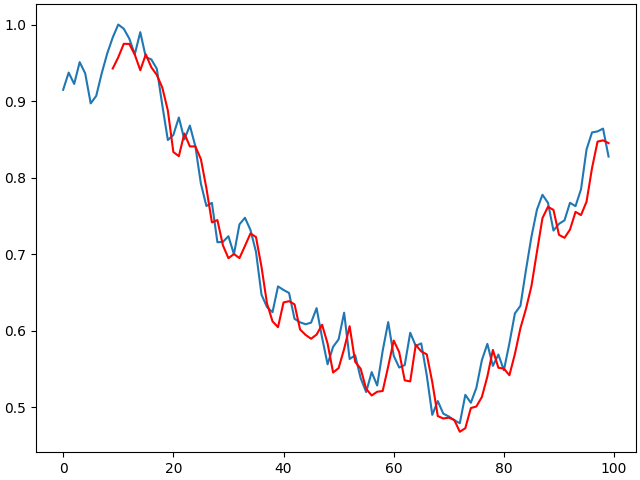
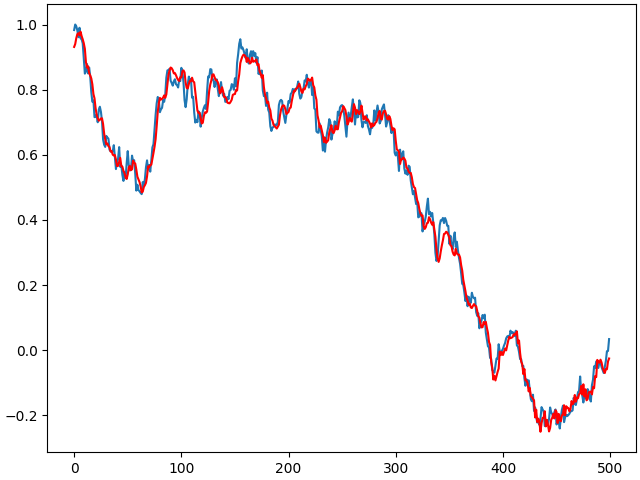
bug fixes

diff --git a/src/training_loop.py b/src/training_loop.py
@@ -89,32 +89,35 @@ def train(datasets_folder="./datasets/"):
         else:
             raise ValueError
         
-        print("Loaded real testing dataset.")
-
-        synth_plot = np.ones_like(dataset.get_whole_stream()) * np.nan
+        print("Loaded testing dataset.")
+        synth_plot = np.zeros_like(dataset.get_whole_stream()) * np.nan
 
         if hparams.model_type == 'PSF':
             y_pred = model(dataset.get_all_sequences(), dataset.get_all_pi()
-                        ).reshape(-1,hparams.data_dim)[hparams.lookback:]
-            
-        elif hparams.model_type == "FFSF":
-            y_pred = model(dataset.get_all_sequences(), dataset.get_all_pi()
-                        ).reshape(-1)[:-hparams.lookback]
+                        ).reshape(-1,hparams.data_dim)
             
         elif hparams.model_type == 'SSF':
             y_pred = model(dataset.get_all_sequences()
-                        ).reshape(-1,hparams.data_dim)[hparams.lookback:]
+                        ).reshape(-1,hparams.data_dim)
 
-        synth_plot[hparams.lookback:dataset.n_samples] = y_pred
+        elif hparams.model_type == "FFSF":
+            y_pred = model(dataset.get_all_sequences(), dataset.get_all_pi()
+                        ).reshape(-1)
+
+
+        if hparams.model_type in ['SSF', 'PSF']:
+            synth_plot[hparams.lookback:] = y_pred[hparams.lookback:]
+        elif hparams.model_type == 'FFSF':
+            synth_plot = y_pred
 
         print("Predictions done.")
         # only plot the first dimension
         horizon = min(hparams.plot_horizon, dataset.n_samples)
-        if hparams.model_type == 'PSF' or hparams.model_type == "SSF":
+        if hparams.model_type in ['PSF', 'SSF']:
             plt.plot(dataset.get_whole_stream()[:horizon,0])
             plt.plot(synth_plot[:horizon,0], c='r')
         else:
-            plt.plot(dataset.get_whole_stream()[:horizon])
+            plt.plot(dataset.get_all_targets()[:horizon])
             plt.plot(synth_plot[:horizon], c='r')
 
         print("Plot done.")

diff --git a/src/hyperparameters.py b/src/hyperparameters.py
@@ -8,7 +8,7 @@ from dataclasses import dataclass
 class Config:
 
     ## Training parameters
-    model_type: bool = 'FFSF' #. . . . . Whether to use PSF, SSF or FFSF
+    model_type: bool = 'PSF' #. . . . . Whether to use PSF, SSF or FFSF
     n_epochs: int = 10**1 #. . . . . . . Number of epochs of training
     batch_size: int = 32 # . . . . . . . Amount of samples in each batch
 
@@ -34,7 +34,7 @@ class Config:
                                # . . . . . . wien: runs a number or wiener processes 
                                # . . . . . . . . . with random mutual correlations
     train_test_split: float = 0.7 #. . . Split between training and testing samples
-    train_val_split: float = 0.9 # . . . Split between training and validating samples
+    train_val_split: float = 0.8 # . . . Split between training and validating samples
     num_samples: int = 10**4 # . . . . . Number of samples to generate (if any)
     lookback: int  = 9 # . . . . . . . . Length of the input sequences
     privileged_lookback: int = 100 # . . Length of the privileged lookback
@@ -48,4 +48,4 @@ class Config:
     ## Testing phase
     alpha: float = 0.1 # . . . . . . . . Parameter for the Anomaly Detector
     h: float = 10 #. . . . . . . . . . . Parameter for the Anomaly Detector
-    plot_horizon: int = 20 #. . . . . . How many samples to plot when testing
+    plot_horizon: int = 500 #. . . . . . How many samples to plot when testing

diff --git a/src/dataset_handling.py b/src/dataset_handling.py
@@ -78,8 +78,6 @@ class PrivilegedDataset(Dataset):
         Arguments:
             - `file_path`: the path of the file containing the data stream
             - `lookback`: length of the sequence to extract from the data stream
-            - `privileged_lookback`: lenght of the sequence from which to compute the summary statistics
-            - `verbose`: if to print informations
         '''
         super().__init__()
 
@@ -215,6 +213,13 @@ class FeedDataset(Dataset):
     def __len__(self) -> int:
         return self.n_seq
     
+    def get_all_targets(self) -> torch.Tensor:
+        targs = torch.zeros(self.n_seq, self.data_dim)
+        for i in range(len(self)):
+            target = self.x[i+self.lookback].reshape(self.data_dim)
+            targs[i] += target
+        return targs.reshape(-1)
+
     def get_all_sequences(self) -> torch.Tensor:
         seqs = torch.zeros(self.n_seq, self.lookback, self.data_dim)
         for i in range(len(self)):

diff --git a/src/lstm-tutorial.py b/src/lstm-tutorial.py
@@ -149,7 +149,7 @@ if True:
         train_plot = np.ones_like(dataset) * np.nan
         y_pred = model(X_train)
         y_pred = y_pred[:, -1, :]
-        train_plot[lookback : train.size()[0]] = model(X_train)[:, -1, :]
+        train_plot[lookback : train.size()[0]] = y_pred
 
         # shift test predictions for plotting
         test_plot = np.ones_like(dataset) * np.nan
